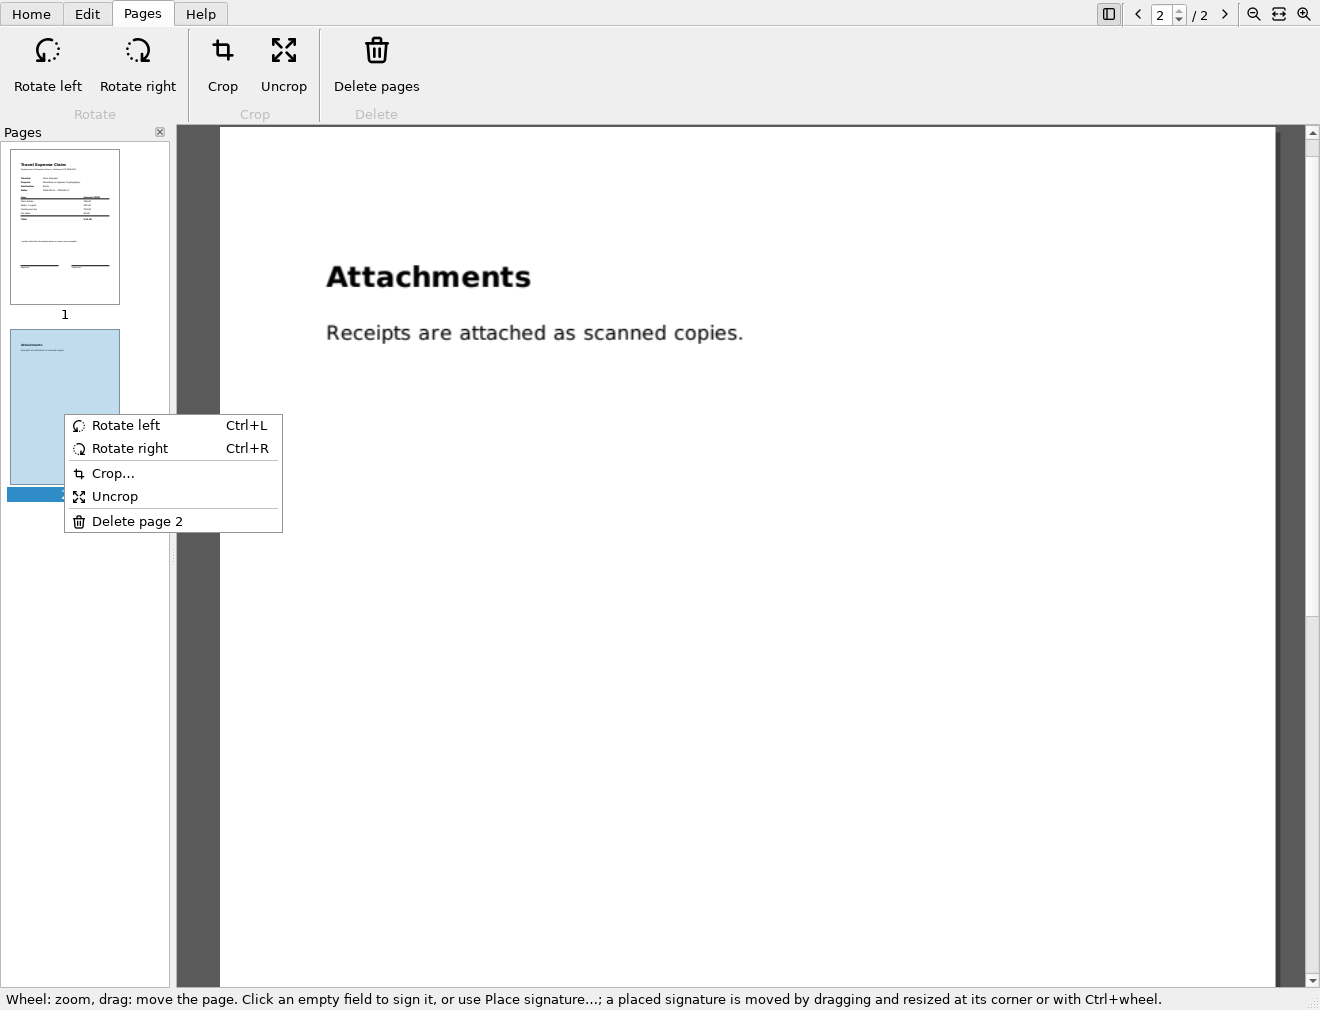
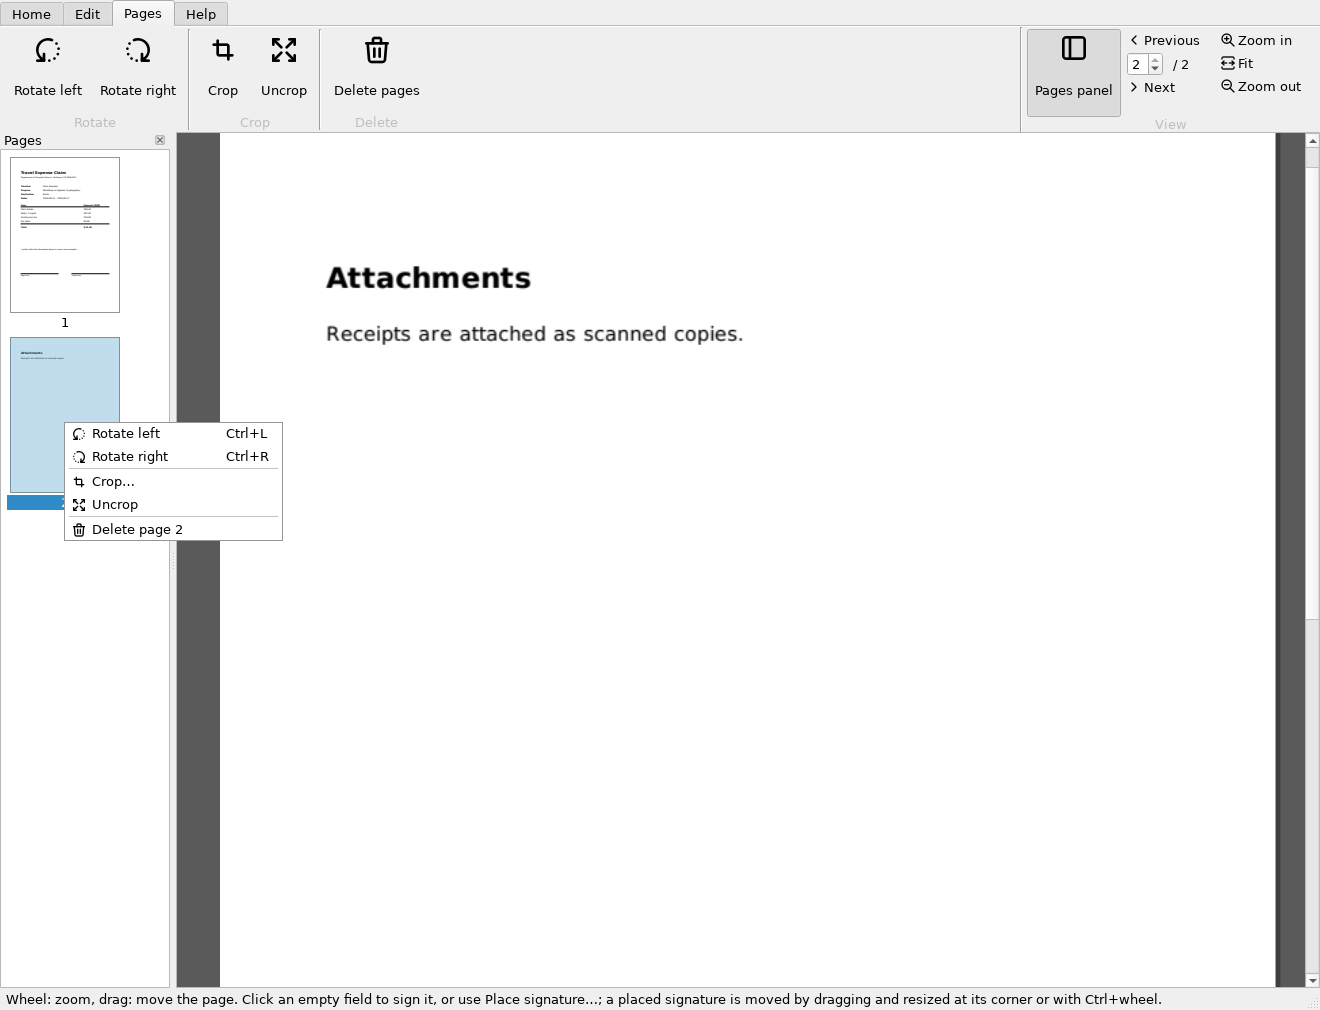
Ribbon: the view controls become a View group in the ribbon itself
Instead of small icons next to the tab names, the Pages panel toggle,
page navigation and zoom form a labelled View group at the right end of
the ribbon, outside the tabs, so it is the same on every tab. The
ribbon is now a tab bar over a body of the tab's groups plus this one.

diff --git a/src/slim_pdf/gui/ribbon.py b/src/slim_pdf/gui/ribbon.py
@@ -10,7 +10,7 @@ from __future__ import annotations
 
 from pathlib import Path
 
-from PySide6.QtCore import QPoint, QRect, QRectF, QSize, Qt
+from PySide6.QtCore import QPoint, QRect, QRectF, QSize, Qt, Signal
 from PySide6.QtGui import QAction, QIcon, QIconEngine, QPainter, QPalette, QPixmap
 from PySide6.QtSvg import QSvgRenderer
 from PySide6.QtWidgets import (
@@ -20,8 +20,9 @@ from PySide6.QtWidgets import (
     QLabel,
     QScrollArea,
     QSizePolicy,
+    QStackedWidget,
     QStyle,
-    QTabWidget,
+    QTabBar,
     QToolButton,
     QVBoxLayout,
     QWidget,
@@ -139,14 +140,37 @@ class RibbonTab(QWidget):
         return g
 
 
-class Ribbon(QTabWidget):
-    """Tabs of groups. A narrow window scrolls a tab sideways rather than
-    growing to fit it."""
+class Ribbon(QWidget):
+    """Tabs of groups, with one group that stays whatever the tab (see
+    :meth:`set_view_controls`) at the right. A narrow window scrolls a tab
+    sideways rather than growing to fit it. Offers the parts of
+    QTabWidget's interface the window uses (count, tabText, currentIndex,
+    setCurrentIndex, currentChanged)."""
+
+    currentChanged = Signal(int)
 
     def __init__(self):
         super().__init__()
-        self.setDocumentMode(True)
-        self.setUsesScrollButtons(True)
+        self.bar = QTabBar()
+        self.bar.setDocumentMode(True)
+        self.bar.setUsesScrollButtons(True)
+        self.bar.setExpanding(False)
+        self.stack = QStackedWidget()
+        self.bar.currentChanged.connect(self._switch)
+        self.body = QHBoxLayout()
+        self.body.setContentsMargins(0, 0, 0, 0)
+        self.body.setSpacing(0)
+        self.body.addWidget(self.stack, 1)
+        lay = QVBoxLayout(self)
+        lay.setContentsMargins(0, 0, 0, 0)
+        lay.setSpacing(0)
+        lay.addWidget(self.bar)
+        lay.addLayout(self.body)
+        self.view_controls: RibbonGroup | None = None
+
+    def _switch(self, index: int) -> None:
+        self.stack.setCurrentIndex(index)
+        self.currentChanged.emit(index)
 
     def tab(self, title: str) -> RibbonTab:
         page = RibbonTab()
@@ -156,47 +180,54 @@ class Ribbon(QTabWidget):
         scroll.setFrameShape(QFrame.NoFrame)
         scroll.setVerticalScrollBarPolicy(Qt.ScrollBarAlwaysOff)
         scroll.setHorizontalScrollBarPolicy(Qt.ScrollBarAsNeeded)
-        scroll.setSizePolicy(QSizePolicy.Expanding, QSizePolicy.Fixed)
-        self.addTab(scroll, title)
+        self.stack.addWidget(scroll)
+        self.bar.addTab(title)
         return page
 
-    def set_view_controls(self, groups: list[list]) -> QWidget:
-        """Controls that apply whatever the tab (actions as small icon
-        buttons, widgets as they are), in groups divided by lines, next to
-        the tab names."""
-        box = QWidget()
-        row = QHBoxLayout(box)
-        row.setContentsMargins(4, 0, 4, 0)
-        row.setSpacing(1)
-        for i, group in enumerate(groups):
-            if i:
-                line = QFrame()
-                line.setFrameShape(QFrame.VLine)
-                line.setFrameShadow(QFrame.Sunken)
-                row.addWidget(line)
-            for item in group:
+    def set_view_controls(self, title: str, large: list, columns: list[list]) -> RibbonGroup:
+        """A group that stays at the ribbon's right end on every tab: the
+        ``large`` actions as big buttons, then ``columns`` of small ones
+        (actions, or widgets such as a page number box)."""
+        group = RibbonGroup(title)
+        for action in large:
+            group.add(action)
+        for column in columns:
+            group._column = None  # each list is a column of its own
+            for item in column:
                 if isinstance(item, QAction):
-                    b = QToolButton()
-                    b.setDefaultAction(item)
-                    b.setAutoRaise(True)
-                    b.setFocusPolicy(Qt.TabFocus)
-                    b.setToolButtonStyle(Qt.ToolButtonIconOnly)
-                    b.setIconSize(QSize(SMALL_ICON, SMALL_ICON))
-                    row.addWidget(b)
+                    group.add(item, large=False)
                 else:
-                    row.addWidget(item)
-        self.setCornerWidget(box, Qt.TopRightCorner)
-        self.view_controls = box
-        return box
+                    group.add_widget(item)
+        line = QFrame()
+        line.setFrameShape(QFrame.VLine)
+        line.setFrameShadow(QFrame.Sunken)
+        self.body.addWidget(line)
+        self.body.addWidget(group)
+        self.view_controls = group
+        return group
+
+    # the QTabWidget-like part
+    def count(self) -> int:
+        return self.bar.count()
+
+    def tabText(self, index: int) -> str:  # noqa: N802 - Qt's name
+        return self.bar.tabText(index)
+
+    def currentIndex(self) -> int:  # noqa: N802 - Qt's name
+        return self.bar.currentIndex()
+
+    def setCurrentIndex(self, index: int) -> None:  # noqa: N802 - Qt's name
+        self.bar.setCurrentIndex(index)
 
     def tab_page(self, index: int) -> RibbonTab:
-        return self.widget(index).widget()
+        return self.stack.widget(index).widget()
 
     def refit(self) -> None:
-        """Once the buttons are in: room for the tallest tab (and a scroll
-        bar, for narrow windows)."""
-        bar = self.tabBar().sizeHint().height()
-        content = max((self.tab_page(i).sizeHint().height() for i in range(self.count())),
-                      default=0)
+        """Once the buttons are in: room for the tallest tab or the view
+        group (and a scroll bar, for narrow windows)."""
+        bar = self.bar.sizeHint().height()
+        heights = [self.tab_page(i).sizeHint().height() for i in range(self.count())]
+        if self.view_controls is not None:
+            heights.append(self.view_controls.sizeHint().height())
         scrollbar = self.style().pixelMetric(QStyle.PM_ScrollBarExtent)
-        self.setFixedHeight(bar + content + scrollbar + 4)
+        self.setFixedHeight(bar + max(heights, default=0) + scrollbar + 4)

diff --git a/tests/test_gui.py b/tests/test_gui.py
@@ -1537,12 +1537,16 @@ def test_ribbon_tabs_and_about(window, monkeypatch):
     assert window.menuWidget() is rb
     assert [rb.tabText(i) for i in range(rb.count())] == ["Home", "Edit", "Pages", "Help"]
     home = [b.defaultAction() for b in rb.tab_page(0).findChildren(QtWidgets.QToolButton)]
-    # viewing controls are next to the tabs, the same on every tab
+    # viewing controls are a group at the ribbon's right end, the same on every tab
     view = [b.defaultAction() for b in rb.view_controls.findChildren(QtWidgets.QToolButton)]
     assert view == [window.pages_dock.toggleViewAction(), window.prev_act, window.next_act,
-                    window.zoom_out_act, window.fit_act, window.zoom_in_act]
-    assert rb.cornerWidget() is rb.view_controls
+                    window.zoom_in_act, window.fit_act, window.zoom_out_act]
+    assert rb.view_controls.title.text() == "View"
     assert rb.view_controls.isAncestorOf(window.page_spin)
+    for i in range(rb.count()):
+        rb.setCurrentIndex(i)
+        assert rb.view_controls.isVisible()
+    rb.setCurrentIndex(0)
     for i in range(rb.count()):
         tab = [b.defaultAction() for b in rb.tab_page(i).findChildren(QtWidgets.QToolButton)]
         assert not set(tab) & set(view)  # not also in a tab

diff --git a/src/slim_pdf/gui/app.py b/src/slim_pdf/gui/app.py
@@ -303,15 +303,19 @@ class MainWindow(QMainWindow):
         g.add(self.about_act)
 
         # Viewing, for every tab: the Pages panel, page navigation and zoom,
-        # next to the tabs
+        # at the ribbon's right end
         panel = self.pages_dock.toggleViewAction()
         panel.setIcon(ribbon.icon("layout-sidebar"))
         panel.setText(_("Pages panel"))
         panel.setToolTip(_("Show or hide the page thumbnails on the left"))
-        rb.set_view_controls([
-            [panel],
-            [self.prev_act, self.page_spin, self.page_count, self.next_act],
-            [self.zoom_out_act, self.fit_act, self.zoom_in_act],
+        spin = QWidget()  # the page number box with " / count"
+        row = QHBoxLayout(spin)
+        row.setContentsMargins(4, 0, 4, 0)
+        row.addWidget(self.page_spin)
+        row.addWidget(self.page_count)
+        rb.set_view_controls(_("View"), [panel], [
+            [self.prev_act, spin, self.next_act],
+            [self.zoom_in_act, self.fit_act, self.zoom_out_act],
         ])
         rb.refit()
         rb.currentChanged.connect(self._ribbon_tab_changed)

diff --git a/docs/gui.md b/docs/gui.md
@@ -30,9 +30,10 @@ guide show the English version.
   * *Pages:* rotate, crop and delete pages (see [Page tools](#page-tools)).
   * *Help:* **Documentation** (`F1`, this guide online), **About Slim PDF**
     (version, and the libraries it is built on).
-  * Right of the tabs, the same on every tab: show or hide the *Pages*
-    panel; previous page, page number, next page (`PgUp`/`PgDown`, or type
-    the number); zoom out, *Fit* (fit width), zoom in (`Ctrl -`/`Ctrl +`).
+  * *View*, a group at the ribbon's right end, the same on every tab:
+    **Pages panel** (show or hide the thumbnails); **Previous**, the page
+    number, **Next** (`PgUp`/`PgDown`, or type the number); **Zoom in**,
+    **Fit** (fit width), **Zoom out** (`Ctrl +`/`Ctrl -`).
 
   **Open…** starts in the folder of the last file you opened, also after
   a restart (remembered in `gui.json` in the user state folder, e.g.
